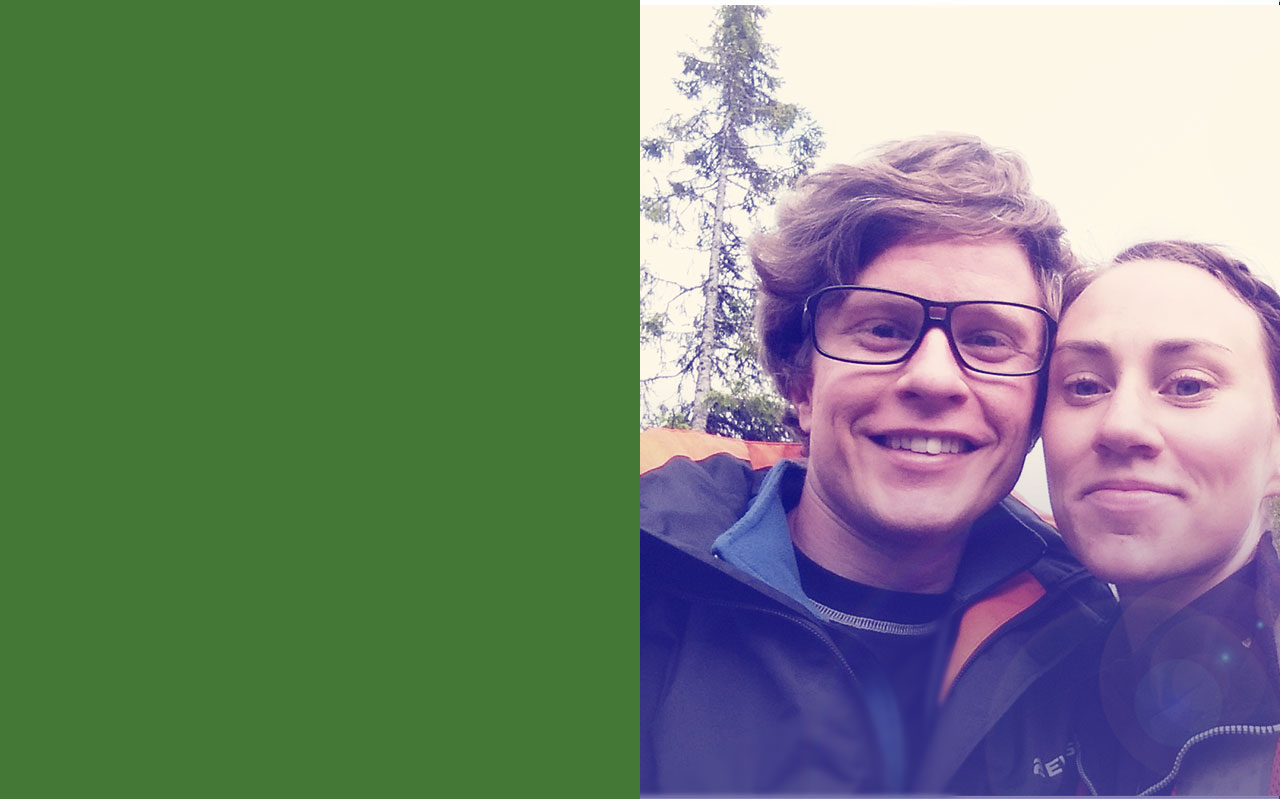
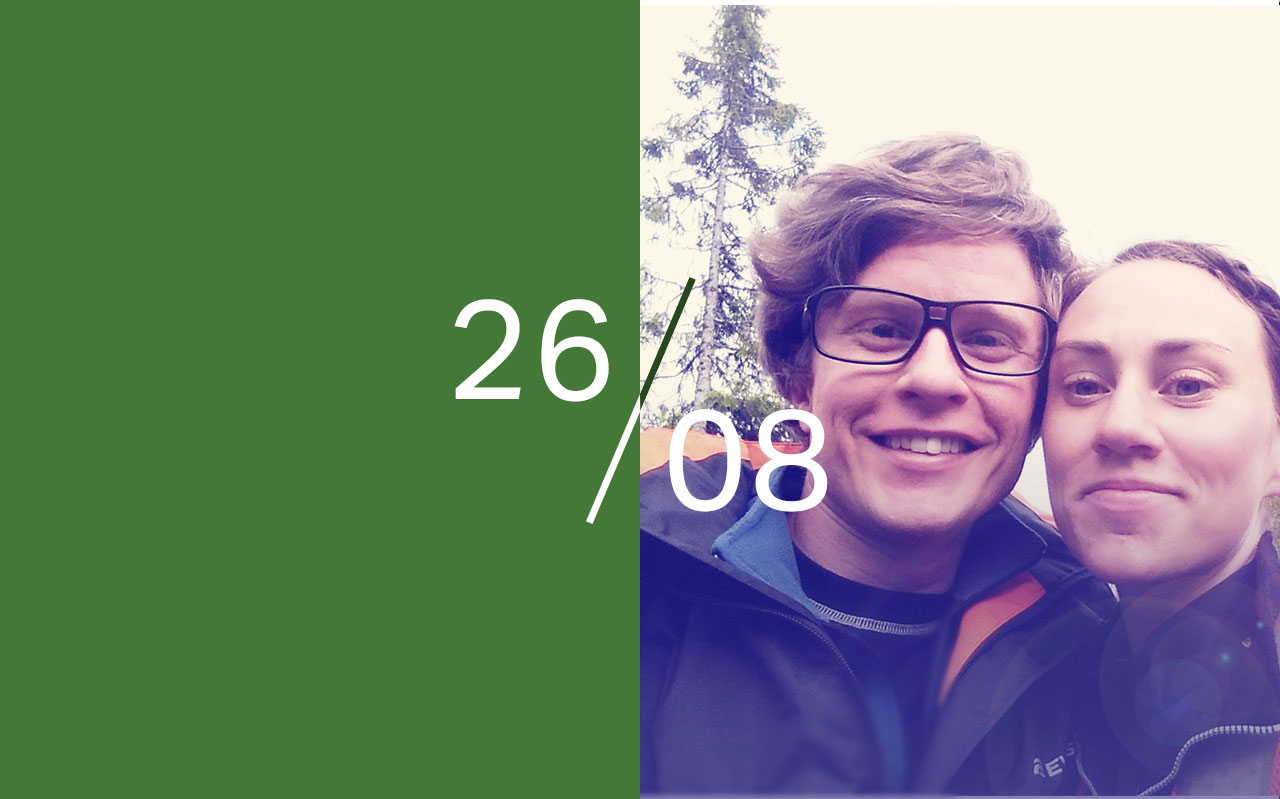
added images and day counter

diff --git a/wp-content/themes/blankslate/style.css b/wp-content/themes/blankslate/style.css
@@ -23,28 +23,61 @@ html,body,div,span,applet,object,iframe,h1,h2,h3,h4,h5,h6,p,blockquote,pre,a,abb
 
 #header {
 	height: 600px;
-	background-image: url('images/header.jpg');
+	background-image: url('images/header2.jpg');
     background-size:cover;
     background-position: center center;
     position: relative;
 	background-color: #447837;
 }
 
-#site-title a,
-#site-title a:active,
-#site-title a:hover,
+#date {
+	text-align: center;
+	margin-top: 265px;
+}
+
+.site-title a,
+.site-title a:active,
+.site-title a:hover,
 #site-title2,
-#site-description {
+#site-description,
+#down-arrow {
 	color: white;
 	margin-left: 60px;
 }
 
+.site-title {
+	padding-top: 25px;
+}
+
 #site-title2 {
 	font-size: 30px;
+	position: absolute;
+	bottom: 150px;
+	font-weight: 300;
 }
 
 #site-description {
 	font-size: 20px;
+	position: absolute;
+	bottom: 120px;
+	font-weight: 200;
+}
+
+#down-arrow {
+	position: absolute;
+	bottom: 40px;
+	-moz-transition: all .5s ease;
+	-webkit-transition: all .5s ease;
+	-o-transition: all .5s ease;
+	transition: all .5s ease;
+}
+
+#down-arrow:hover {
+	opacity: 1;
+	-moz-transform: scale(1.1) rotate(90deg);
+	-webkit-transform: scale(1.1) rotate(90deg);
+	-o-transform: scale(1.1) rotate(90deg);
+	transform: scale(1.1) rotate(90deg);
 }
 
 #menu {
@@ -53,15 +86,81 @@ html,body,div,span,applet,object,iframe,h1,h2,h3,h4,h5,h6,p,blockquote,pre,a,abb
 	position: absolute;
 }
 
-#menu a {
-	margin-left: 35px;
-}
-
 #menu a,
 #menu a:active,
 #menu a:hover {
+	margin-left: 35px;
 	color: #284620;
-	font-size: 1em;
+	font-size: 14px;
 	text-transform: uppercase;
 	font-weight: 300;
+}
+
+#menu a:hover {
+	font-weight: 400;
+}
+
+/* 
+	----- CONTENT
+*/
+
+
+#container .section {
+	margin-top: 100px;
+	padding: 0 30px 0 30px;
+}
+
+.tag {
+	font-size: 20px;
+	text-transform: uppercase;
+	color: #303030;
+	font-weight: 500;
+}
+
+.section-title {
+	font-size: 80px;
+	font-weight: 500;
+	text-transform: uppercase;
+	color: #447837;
+}
+
+.section h2 {
+	font-size: 16px;
+	font-weight: 500;
+}
+
+.section p {
+	font-size: 20px;
+	font-weight: 200;
+}
+
+#countdown .days,
+#countdown .info {
+	text-align: center;
+	color: #447837;
+}
+
+#countdown .days {
+	font-size: 155px;
+	font-weight: 500;
+	height: 200px;
+}
+
+#countdown .info {
+	font-size: 56px;
+	font-weight: 300;
+}
+
+/* 
+	----- FOOTER
+*/
+
+#footer {
+	margin-top: 100px;
+	height: 800px;
+	background-image: url('images/footer.jpg');
+    background-size:cover;
+    background-position: center center;
+    position: relative;
+	background-color: #447837;
 }

diff --git a/wp-content/themes/blankslate/js/app.js b/wp-content/themes/blankslate/js/app.js
@@ -25,6 +25,11 @@ jQuery(document).ready(function($) {
 		} // End if
 	});
 
+	var ms = new Date('2017-08-26T00:00:00').getTime() - new Date().getTime();
+	var days = ms/1000/60/60/24;
+	$("#countdown .days")[0].innerHTML = Math.ceil(days);
+	$("#countdown .info")[0].innerHTML = days == 1 ? "day left" : "days left"
+
 	 /* Replace all SVG images with inline SVG
 	 */
 	jQuery('img.svg').each(function(){
@@ -71,7 +76,32 @@ jQuery(document).ready(function($) {
 	{
 		var height = window.innerHeight;
 		$("#header").css("height",height+"px");
+		$("#date").css("margin-top", ((height/2)-190)+"px");
 	}
 });
+
+/*
+
+var x,n=0,rotINT;
+function rotateArrow()
+{
+	x=document.getElementById("down-arrow");
+	clearInterval(rotINT);
+	rotINT=setInterval(startRotate, 10);
+}
+
+function startRotate()
+{
+	n=n+2;
+	x.style.transform="rotate(" + n + "deg)";
+	x.style.webkitTransform="rotate(" + n + "deg)";
+	x.style.OTransform="rotate(" + n + "deg)";
+	x.style.MozTransform="rotate(" + n + "deg)";
+	if (n==90)
+	{
+		clearInterval(rotINT);
+	}
+}
+*/
 
 

diff --git a/wp-content/themes/blankslate/index.php b/wp-content/themes/blankslate/index.php
@@ -1,5 +1,100 @@
 <?php get_header(); ?>
 <section id="content" role="main">
-hello world
+	<section class="row section" id="ceremoni">
+		<div class="small-12 columns tag">Ceremoni</div>
+		<h1 class="small-12 columns section-title">Into the woods</h1>
+		<section class="small-12 medium-6 columns party-image">
+			<img src="<?php bloginfo('template_url'); ?>/images/sea.jpg" />
+		</section>
+		<section class="small-12 medium-6 columns party-image">
+			<h2>STOCKHOLMS SKÄRGÅRD</h2>
+			<p>Cermonin kommer att hållas i en skogsdunge precis intill festlokalen, Magasinet, som ligger vid Norrnäs Gård på Värmdö. Det är en borglig vigsel och kommer att äga rum 15.30 den 26:e augusti.</p>
+		</section>
+		<section class="small-12 medium-6 columns party-image">
+			<h2>MAGASINET</h2>
+			<p>Lokalen där festen kommer hållas var en gång i tiden ett sädesmagasin och kommer även användas som alternativ vigselplats om det regnar.</p>
+			<p>Det smidigare sättet att ta sig ut hit är med bil/taxi. Eftersom det är ganska långt ut på Vämdö så är antalet bussar/tider begränsade. Vill man åka kommunalt så är det buss 474 från Slussen, byte i Kolvik och därefter buss 463 mot Sandö brygga. Hållplatsen att kliva av på är Norrnäs Gård.</p>
+		</section>
+		<section class="small-12 medium-6 columns party-image">
+			<img src="<?php bloginfo('template_url'); ?>/images/house.jpg" />
+		</section>
+	</section>
+	<section class="row section" id="countdown">
+		<section class="small-12 medium-6 columns party-image">
+			<div class="days">---</div> 
+			<div class="info">days left</div>
+		</section>
+		<section class="small-12 medium-6 columns party-image">
+			<img src="<?php bloginfo('template_url'); ?>/images/illustration.png" />
+		</section>
+	</section>
+	<section class="row section" id="festinfo">
+		<div class="small-12 columns tag">festinfo</div>
+		<h1 class="small-12 columns section-title">Let`s be marry</h1>
+		<section class="small-12 medium-6 columns party-image">
+			<h2>OM FESTEN</h2>
+			<p>Festen kommer hållas i Magasinet och middagen serveras från 18.00. Det kommer serveras mat från en foodtruck och här nedan får ni ange om ni  vill äta kött eller vegetariskt till huvudrätt. Meddela om ni har några allergier.</p>
+			<p>Gällande presenter är det så att den största gåvan är er närvaro, men för den som önskar ge något så skulle vi uppskatta ett bidrag till vår bröllopsresa.</p>
+			<p>Vi älskar barn men denna dag vill vi  fira med våra vuxna vänner och släktingar.</p>
+		</section>
+		<section class="small-12 medium-6 columns party-image">
+			<img src="<?php bloginfo('template_url'); ?>/images/party1.jpg" />
+		</section>
+		<section class="small-12 medium-6 columns party-image">
+			<img src="<?php bloginfo('template_url'); ?>/images/party_sofie.jpg" />
+		</section>
+		<section class="small-12 medium-6 columns party-image">
+			<h2>TOASTPAR</h2>
+			<p>Dagen och kvällen kommer styras av Sofie Sandgren, brudens äldsta vapendragare och Jörgen Svebeck, som är brudgummens bror.</p>
+			<p>Vill ni hålla tal/sjunga/dansa/rimma, eller kanske bara säga skål så hör av er till dem så fort som möjligt.</p>
+			<section class="toastmaster">
+				<h3 class="name">Sofie Sandgren</h3>
+				<ul>
+					<li class="email">sofie_sandgren@hotmail.com</li>
+					<li class="phone">070 – 943 59 76</li>
+				</ul>
+			</section>
+		</section>
+		<section class="small-12 medium-6 columns party-image">
+			<p>Dagen och kvällen kommer styras av Sofie Sandgren, brudens äldsta vapendragare och Jörgen Svebeck, som är brudgummens bror.</p>
+			<p>Vill ni hålla tal/sjunga/dansa/rimma, eller kanske bara säga skål så hör av er till dem så fort som möjligt.</p>
+			<section class="toastmaster">
+				<h3 class="name">Jörgen Svebeck</h3>
+				<ul>
+					<li class="email">sofie_sandgren@hotmail.com</li>
+					<li class="phone">070 – 943 59 76</li>
+				</ul>
+			</section>
+		</section>
+		<section class="small-12 medium-6 columns party-image">
+			<img src="<?php bloginfo('template_url'); ?>/images/party_jorgen.jpg" />
+		</section>
+	</section>
+	<section class="row section" id="boende">
+		<div class="small-12 columns tag">boende</div>
+		<h1 class="small-12 columns section-title">Vart ska man bo?</h1>
+		<section class="small-12 medium-6 columns party-image">
+			<img src="<?php bloginfo('template_url'); ?>/images/siggesta.jpg" />
+			<ul>
+				<li class="phone">08-562 80 100</li>
+				<li class="website"><a href="http://siggestagard.se">www.siggestagard.se</a></li>
+			</ul>
+		</section>
+		<section class="small-12 medium-6 columns party-image">
+			<h2>Beonde</h2>
+			<p>Vi har abonerat flertalet rum på Siggesta Gård, som ligger cirka 10 minuter med transport från festlokalen. Vi har även abonerat rum på ett hotell som ligger lite längre bort i Gustavsbergs centrum. För att boka rum på Siggesta Gård uppge “CamillaStefanbröllop”. Kommer inte finnas rum till alla så det är först till kvarn som gäller.</p>
+		</section>
+		<section class="small-12 medium-6 columns party-image">
+			<h2>Transport</h2>
+			<p>Vi har fixat så en buss kör alla bröllopsgästerna både till Gustavsbergs centrum, där man kan ta sig vidare mot centrum kommunalt, men också till Blå Blom och slutligen Siggesta Gård för de som skall övernatta där.</p>
+		</section>
+		<section class="small-12 medium-6 columns party-image">
+			<img src="<?php bloginfo('template_url'); ?>/images/blablom.jpg" />
+			<ul>
+				<li class="phone">08-562 80 100</li>
+				<li class="website"><a href="http://blablom.se">www.blablom.se</a></li>
+			</ul>
+		</section>
+	</section>
 </section>
 <?php get_footer(); ?>

diff --git a/wp-content/themes/blankslate/header.php b/wp-content/themes/blankslate/header.php
@@ -9,8 +9,12 @@
 <body <?php body_class(); ?>>
 <div id="wrapper" class="hfeed">
 	<header id="header" role="banner">
-		<div id="site-title">
-			<a href="<?php echo esc_url( home_url( '/' ) ); ?>" title="Stefan / Camilla" rel="home">Stefan / Camilla</a>
+		<div class="site-title">
+			<a href="<?php echo esc_url( home_url( '/' ) ); ?>" title="Stefan / Camilla" rel="home"><img src="<?php bloginfo('template_url'); ?>/images/header_title.png" /></a>
+		</div>
+
+		<div id="date">
+			<img src="<?php bloginfo('template_url'); ?>/images/date.png" />
 		</div>
 
 		<div id="site-title2">
@@ -19,11 +23,15 @@
 		<div id="site-description">
 			ska gifta sig på Norrnäs, Värmdö 26 augusti
 		</div>
+		<div id="down-arrow">
+			<a href="#festinfo"><img src="<?php bloginfo('template_url'); ?>/images/down_arrow.png" /></a>
+		</div>
 		<nav id="menu" role="navigation">
 			<a href="#ceremoni" >Ceremoni</a>
 			<a href="#festinfo" >Festinfo</a>
 			<a href="#boende" >Boende</a>
-			<a href="#osa" >OSA</a>
+			<a href="#footer" >OSA</a>
 		</nav>
 	</header>
-	<div id="container">
+	<div id="container" class="row">
+		<div class="small-12 columns">

diff --git a/wp-content/themes/blankslate/footer.php b/wp-content/themes/blankslate/footer.php
@@ -1,11 +1,13 @@
-		<div class="clear"></div>
 		</div>
-		<footer id="footer" role="contentinfo">
-			<div id="copyright">
-			<?php echo sprintf( __( '%1$s %2$s %3$s. All Rights Reserved.', 'blankslate' ), '&copy;', date( 'Y' ), esc_html( get_bloginfo( 'name' ) ) ); echo sprintf( __( ' Theme By: %1$s.', 'blankslate' ), '<a href="http://tidythemes.com/">TidyThemes</a>' ); ?>
-			</div>
-		</footer>
-	</div>
+	</div>	
+	<footer id="footer">
+		<div class="site-title">
+			<a href="<?php echo esc_url( home_url( '/' ) ); ?>" title="Stefan / Camilla" rel="home"><img src="<?php bloginfo('template_url'); ?>/images/header_title.png" /></a>
+		</div>
+		<h2 class="osa-date">
+			OSA senast 15 juli
+		</h2>
+	</footer>
 <?php wp_footer(); ?>
 </body>
 </html>
